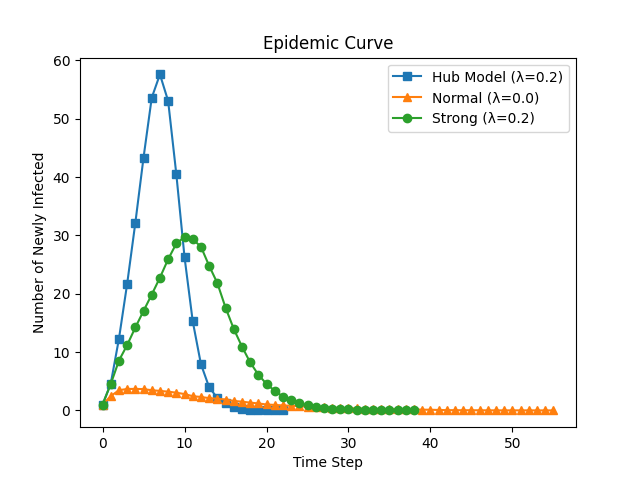
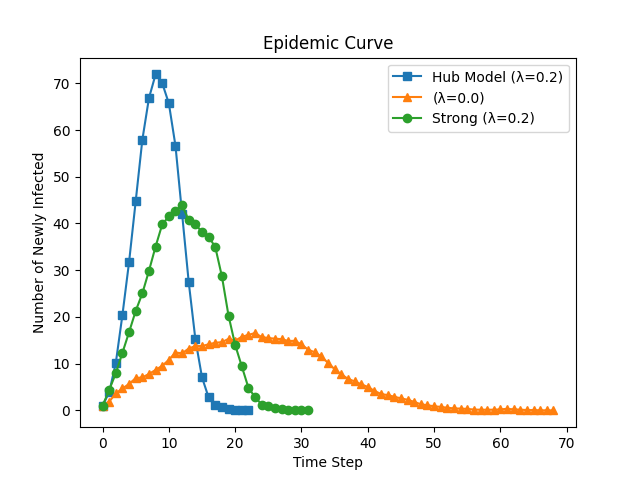
fix the engine to fit more faithfully

diff --git a/plot_results.py b/plot_results.py
@@ -1,18 +1,24 @@
 import numpy as np
 import matplotlib.pyplot as plt
 
-# Example: Plotting the Epidemic Curve
-data_hub = np.load("saved_run/results_sup0.2_pop450_mod2.npz")
-data_normal = np.load("saved_run/results_sup0.0_pop450_mod1.npz")
-data_strong = np.load("saved_run/results_sup0.2_pop450_mod1.npz")
+def plot_epi_curve():
+    data_hub = np.load("saved_run/results_sup0.2_pop600_mod2.npz")
+    data_normal = np.load("saved_run/results_sup0.0_pop600_mod2.npz")
+    data_strong = np.load("saved_run/results_sup0.2_pop600_mod1.npz")
 
-plt.plot(data_hub['epi_curve'], label="Hub Model (λ=0.2)", marker='s')
-plt.plot(data_normal['epi_curve'], label="Normal (λ=0.0)", marker='^')
-plt.plot(data_strong['epi_curve'], label="Strong (λ=0.2)", marker='o')
+    plt.plot(data_hub['epi_curve'], label="Hub Model (λ=0.2)", marker='s')
+    plt.plot(data_normal['epi_curve'], label="(λ=0.0)", marker='^')
+    plt.plot(data_strong['epi_curve'], label="Strong (λ=0.2)", marker='o')
 
-plt.title("Epidemic Curve")
-plt.xlabel("Time Step")
-plt.ylabel("Number of Newly Infected")
-plt.legend()
-plt.show()
-# plt.savefig("plots/epidemic_curve.png")
+    plt.title("Epidemic Curve")
+    plt.xlabel("Time Step")
+    plt.ylabel("Number of Newly Infected")
+    plt.legend()
+    plt.savefig("plots/epidemic_curve.png")
+    
+def plot_perc_prob():
+    pass
+
+if __name__ == "__main__":
+    plot_epi_curve()
+    # plot_perc_prob()

diff --git a/src/engine.py b/src/engine.py
@@ -92,17 +92,18 @@ if __name__ == "__main__":
         if percolated:
             total_percolations += 1
             
-        all_epidemic_curves.append(curve)
+            all_epidemic_curves.append(curve)
         
     # Calculate the percolation probability for this specific parameter set
     percolation_probability = total_percolations / args.num_sim
     
-    # Pad curves with zeros if they ended early so we can average them cleanly
-    max_length = max(len(c) for c in all_epidemic_curves)
-    padded_curves = [c + [0] * (max_length - len(c)) for c in all_epidemic_curves]
-    
-    # Calculate the average epidemic curve
-    average_curve = np.mean(padded_curves, axis=0)
+    # Pad curves with zeros if they ended early
+    if len(all_epidemic_curves) > 0:
+        max_length = max(len(c) for c in all_epidemic_curves)
+        padded_curves = [c + [0] * (max_length - len(c)) for c in all_epidemic_curves]
+        average_curve = np.mean(padded_curves, axis=0)
+    else:
+        average_curve = np.array([0]) # Default if no epidemics occurred
     
     filename = f"results_sup{args.sup_prob}_pop{args.env_pop}_mod{args.model_type}.npz"
     np.savez(f"{args.save_path}/{filename}", perc_prob=percolation_probability, epi_curve=average_curve)
@@ -110,6 +111,7 @@ if __name__ == "__main__":
     logging.info(f"Running Monte Carlo simulation on\n \
                     Superspreader probability:  {args.sup_prob}\n \
                     Environment population:     {args.env_pop}\n \
-                    Model type:                 {args.model_type}")
+                    Model type:                 {args.model_type}\n \
+                    Finished! Percolation Prob: {percolation_probability}\n")
     
-    logging.info(f"Finished! Percolation Prob: {percolation_probability}\n")
+    # logging.info(f"Finished! Percolation Prob: {percolation_probability}\n")

diff --git a/src/individual.py b/src/individual.py
@@ -14,8 +14,8 @@ class Individual:
             x_delta = ENV_WIDTH - x_delta
         
         y_delta = abs(self.coord[1] - other.coord[1])
-        if y_delta > (1 / 2 * ENV_WIDTH):
-            y_delta = ENV_WIDTH - y_delta
+        # if y_delta > (1 / 2 * ENV_WIDTH):
+        #     y_delta = ENV_WIDTH - y_delta
         
         return np.sqrt(pow(x_delta, 2) + pow(y_delta, 2))
     